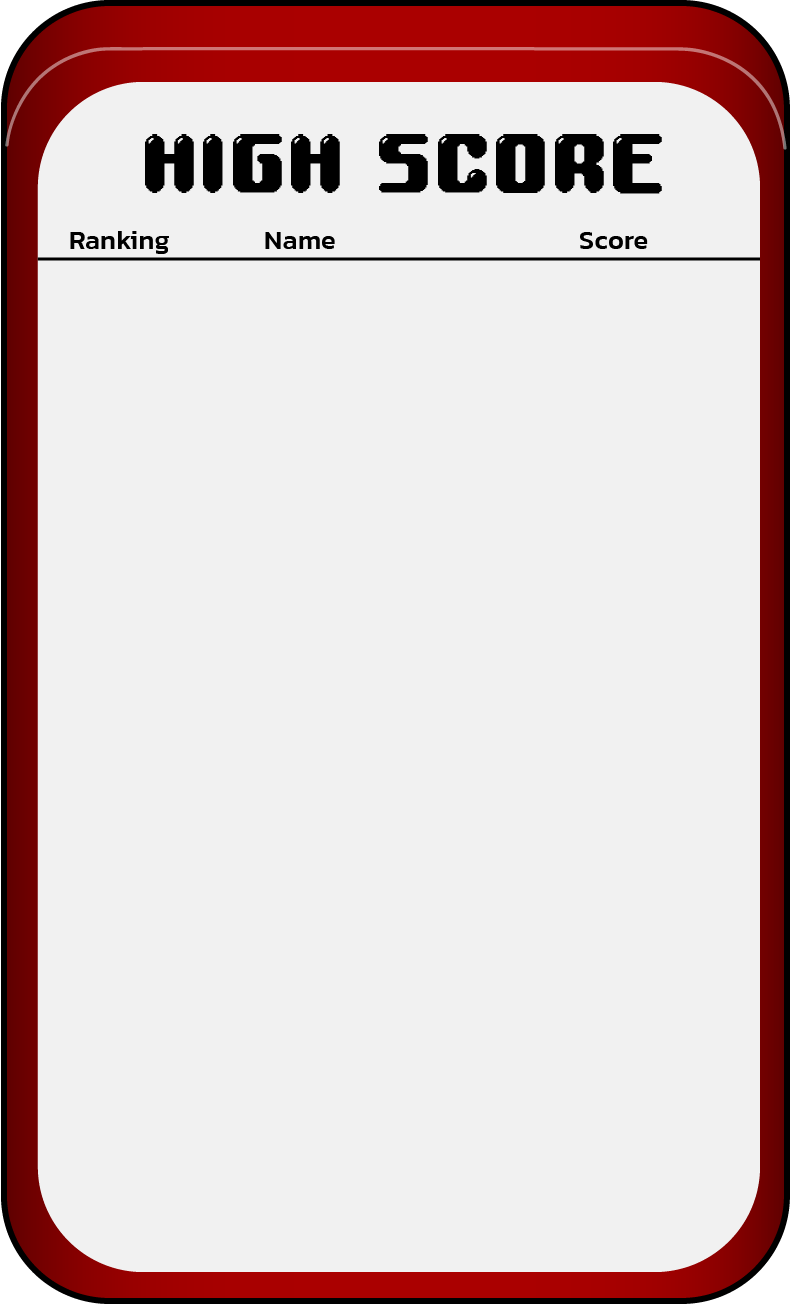
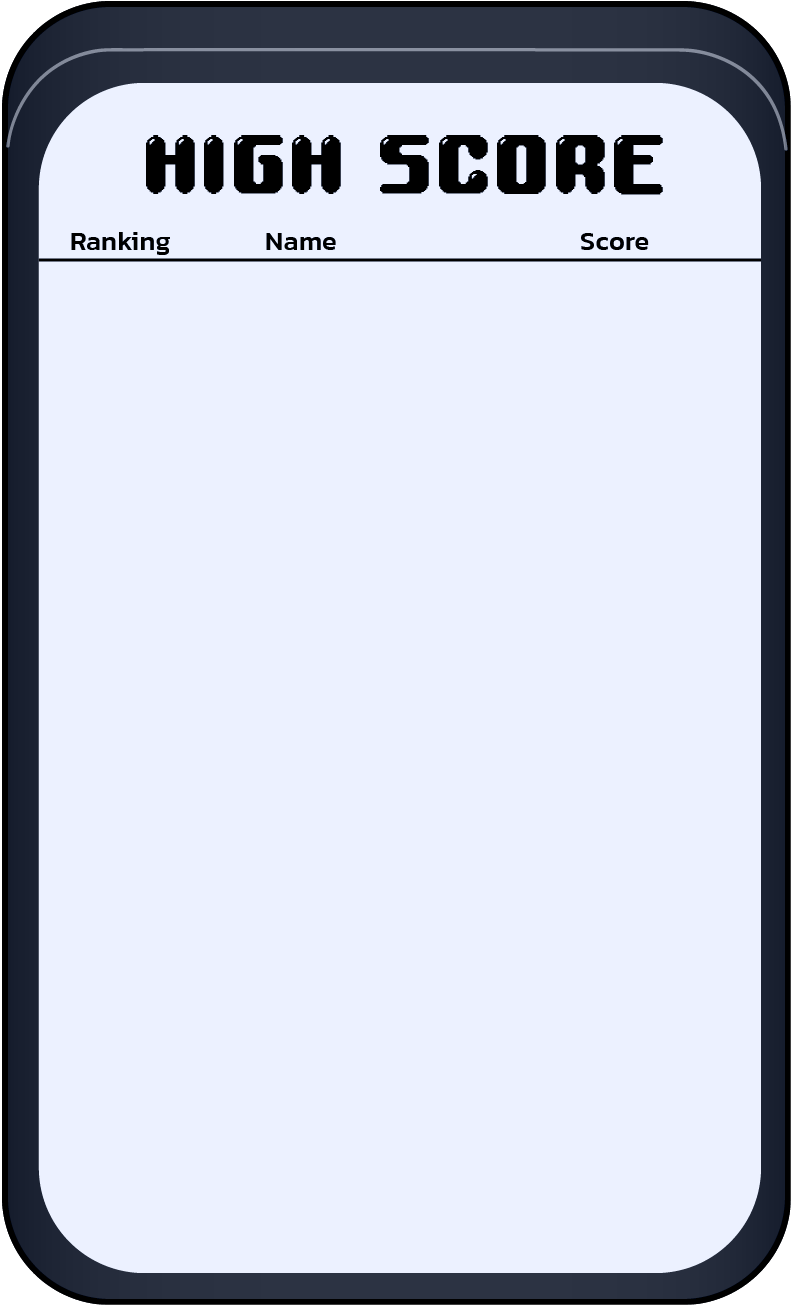
update theme v3

diff --git a/src/js/main.js b/src/js/main.js
@@ -154,7 +154,7 @@ window.onload = function () {
         dom: {
             createContainer: true
         },
-        backgroundColor: 0xD30000,
+        backgroundColor: //0xD30000,
         scene: [LobbyGame, InputData, PlayGame, Leaderboard, Loading]
     };
     var game = new Phaser.Game(gameConfig);
